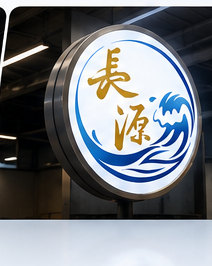
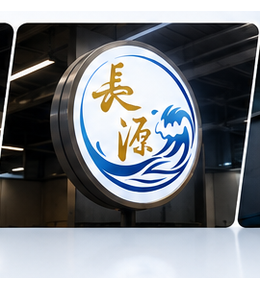
Fix card boundary detection: re-crop all 6 hero strip images with correct per-card boundaries (accounting for perspective tilt), pad to uniform canvas so no real content is cut off

diff --git a/index.html b/index.html
@@ -132,7 +132,7 @@
 .hero-strip{margin-top:52px; position:relative; z-index:2; perspective:1400px;}
 .strip-grid{display:grid; grid-template-columns:repeat(6,1fr); gap:14px;}
 .strip-card{
-  aspect-ratio:212/266; border-radius:10px; overflow:hidden; position:relative;
+  aspect-ratio:260/290; border-radius:10px; overflow:hidden; position:relative;
   border:1px solid var(--line); box-shadow:0 18px 30px -20px rgba(15,60,110,0.28);
   transition:transform .25s ease; transform-style:preserve-3d;
   transform:rotateY(6deg) rotateX(2deg);
